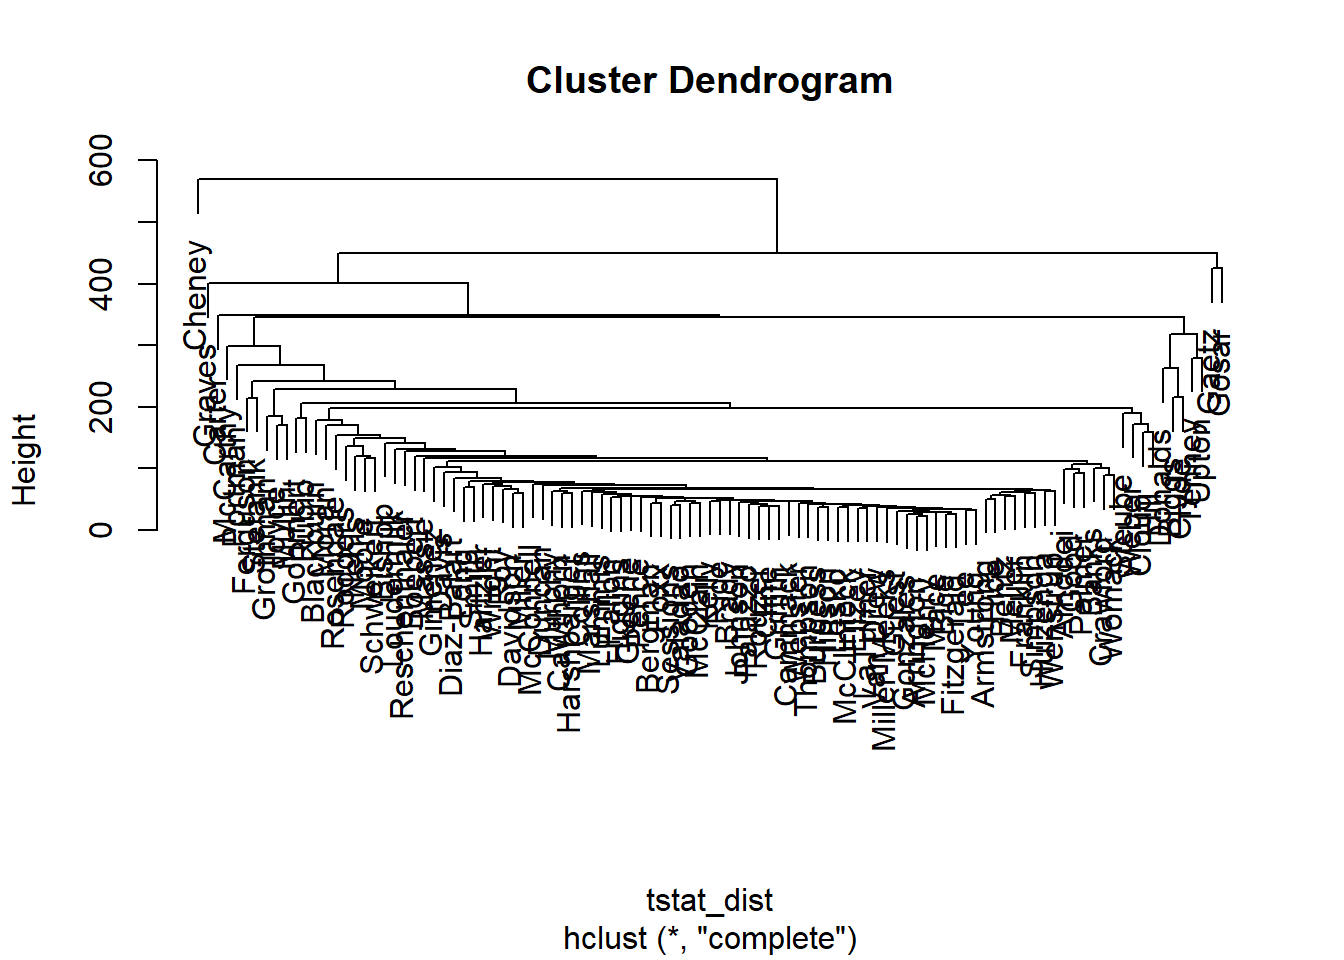
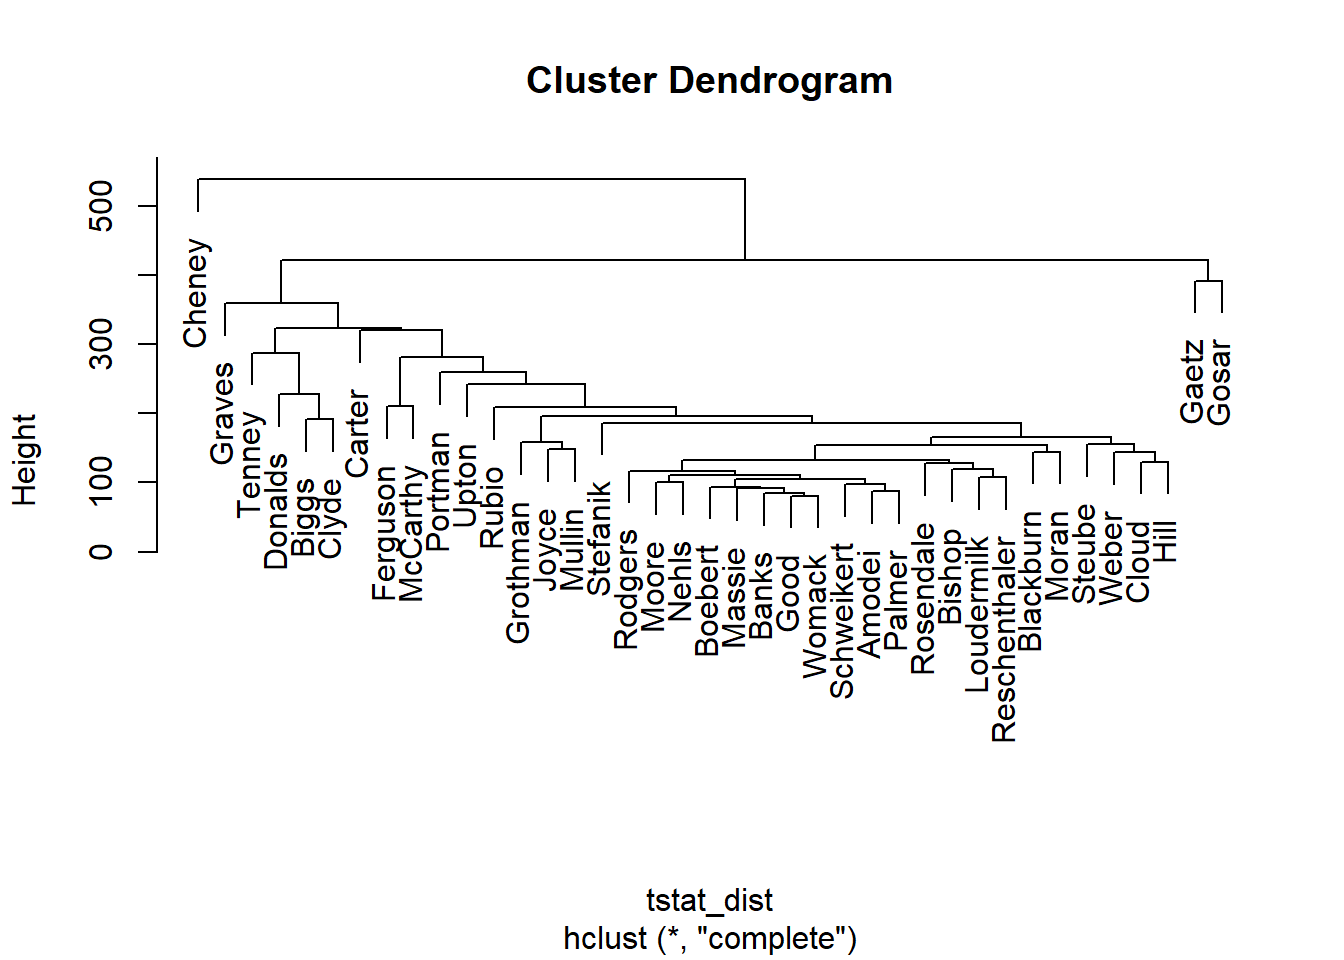
new

Changed region(s): [[0.125, 0.25, 0.9375, 0.7812], [0.25, 0.25, 0.9062, 0.3125], [0.0625, 0.125, 0.0938, 0.5938]]

diff --git a/docs/newsletters.html b/docs/newsletters.html
@@ -253,8 +253,8 @@ pre > code.sourceCode > span > a:first-child::before { text-decoration: underlin
 <span id="cb1-65"><a href="#cb1-65" aria-hidden="true" tabindex="-1"></a><span class="fu">ndoc</span>(dfmat_rusers)</span>
 <span id="cb1-66"><a href="#cb1-66" aria-hidden="true" tabindex="-1"></a>dfmat_rusers <span class="ot">&lt;-</span> dfmat_rusers <span class="sc">%&gt;%</span> </span>
 <span id="cb1-67"><a href="#cb1-67" aria-hidden="true" tabindex="-1"></a>    <span class="fu">dfm_select</span>(<span class="at">min_nchar =</span> <span class="dv">2</span>) <span class="sc">%&gt;%</span> </span>
-<span id="cb1-68"><a href="#cb1-68" aria-hidden="true" tabindex="-1"></a>    <span class="fu">dfm_trim</span>(<span class="at">min_termfreq =</span> <span class="dv">10</span>) </span>
-<span id="cb1-69"><a href="#cb1-69" aria-hidden="true" tabindex="-1"></a>dfmat_rusers <span class="ot">&lt;-</span> dfmat_rusers[<span class="fu">ntoken</span>(dfmat_rusers) <span class="sc">&gt;</span> <span class="dv">50</span>,]</span>
+<span id="cb1-68"><a href="#cb1-68" aria-hidden="true" tabindex="-1"></a>    <span class="fu">dfm_trim</span>(<span class="at">min_termfreq =</span> <span class="dv">50</span>) <span class="co"># trimming dataset, only words that happen 50 times, helps make sense of data </span></span>
+<span id="cb1-69"><a href="#cb1-69" aria-hidden="true" tabindex="-1"></a>dfmat_rusers <span class="ot">&lt;-</span> dfmat_rusers[<span class="fu">ntoken</span>(dfmat_rusers) <span class="sc">&gt;</span> <span class="dv">1000</span>,] <span class="co"># only keeping users with more than 1000 tokens, helps to trim dataset and identify top users</span></span>
 <span id="cb1-70"><a href="#cb1-70" aria-hidden="true" tabindex="-1"></a>tstat_dist <span class="ot">&lt;-</span> <span class="fu">as.dist</span>(<span class="fu">textstat_dist</span>(dfmat_rusers))</span>
 <span id="cb1-71"><a href="#cb1-71" aria-hidden="true" tabindex="-1"></a>user_clust <span class="ot">&lt;-</span> <span class="fu">hclust</span>(tstat_dist)</span>
 <span id="cb1-72"><a href="#cb1-72" aria-hidden="true" tabindex="-1"></a><span class="fu">plot</span>(user_clust)</span>
@@ -269,8 +269,8 @@ pre > code.sourceCode > span > a:first-child::before { text-decoration: underlin
 <span id="cb1-81"><a href="#cb1-81" aria-hidden="true" tabindex="-1"></a><span class="fu">ndoc</span>(dfmat_dusers)</span>
 <span id="cb1-82"><a href="#cb1-82" aria-hidden="true" tabindex="-1"></a>dfmat_dusers <span class="ot">&lt;-</span> dfmat_dusers <span class="sc">%&gt;%</span> </span>
 <span id="cb1-83"><a href="#cb1-83" aria-hidden="true" tabindex="-1"></a>    <span class="fu">dfm_select</span>(<span class="at">min_nchar =</span> <span class="dv">2</span>) <span class="sc">%&gt;%</span> </span>
-<span id="cb1-84"><a href="#cb1-84" aria-hidden="true" tabindex="-1"></a>    <span class="fu">dfm_trim</span>(<span class="at">min_termfreq =</span> <span class="dv">10</span>) </span>
-<span id="cb1-85"><a href="#cb1-85" aria-hidden="true" tabindex="-1"></a>dfmat_dusers <span class="ot">&lt;-</span> dfmat_dusers[<span class="fu">ntoken</span>(dfmat_dusers) <span class="sc">&gt;</span> <span class="dv">50</span>,]</span>
+<span id="cb1-84"><a href="#cb1-84" aria-hidden="true" tabindex="-1"></a>    <span class="fu">dfm_trim</span>(<span class="at">min_termfreq =</span> <span class="dv">50</span>) <span class="co"># trimming dataset, only words that happen 50 times, helps make sense of data  </span></span>
+<span id="cb1-85"><a href="#cb1-85" aria-hidden="true" tabindex="-1"></a>dfmat_dusers <span class="ot">&lt;-</span> dfmat_dusers[<span class="fu">ntoken</span>(dfmat_dusers) <span class="sc">&gt;</span> <span class="dv">1000</span>,] <span class="co"># only keeping users with more than 1000 tokens, helps to trim dataset and identify top users</span></span>
 <span id="cb1-86"><a href="#cb1-86" aria-hidden="true" tabindex="-1"></a>tstat_dist <span class="ot">&lt;-</span> <span class="fu">as.dist</span>(<span class="fu">textstat_dist</span>(dfmat_dusers))</span>
 <span id="cb1-87"><a href="#cb1-87" aria-hidden="true" tabindex="-1"></a>user_clust <span class="ot">&lt;-</span> <span class="fu">hclust</span>(tstat_dist)</span>
 <span id="cb1-88"><a href="#cb1-88" aria-hidden="true" tabindex="-1"></a><span class="fu">plot</span>(user_clust)</span></code><button title="Copy to Clipboard" class="code-copy-button"><i class="bi"></i></button></pre></div>
